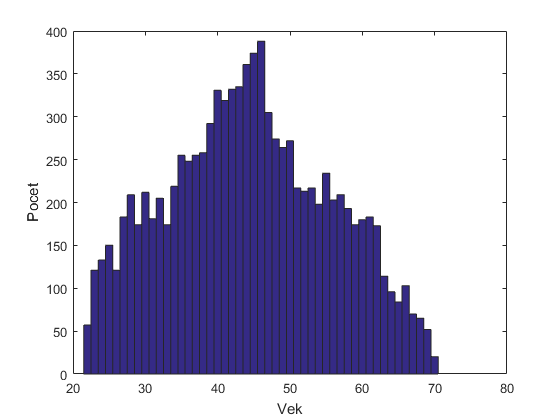
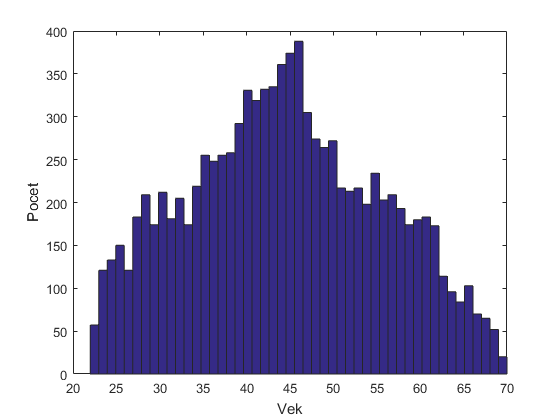
no message

Changed region(s): [[0.1214, 0.0929, 0.9107, 0.9595], [0.5768, 0.8976, 0.6071, 0.9595]]

diff --git a/LIu1.m b/LIu1.m
@@ -10,15 +10,11 @@ age = data(:,1);
 %%
 %make histogram of ages
 figure(1);
-range = min(age):max(age);
 % [bincounts, ind] = 
-hist(data(:,1),range);
+hist(data(:,1),49);
 % bar(range, bincounts, 'histc');
 ylabel('Pocet');
 xlabel('Vek');
-
-
-length(age >= 70)
 
 %%
 bmi = [18,24,30,40]
